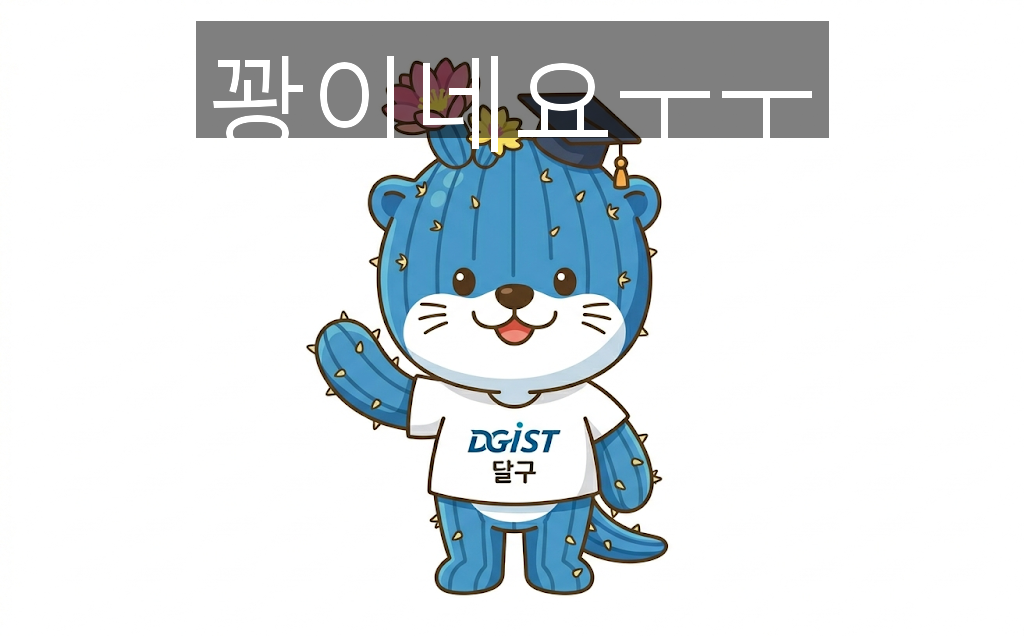
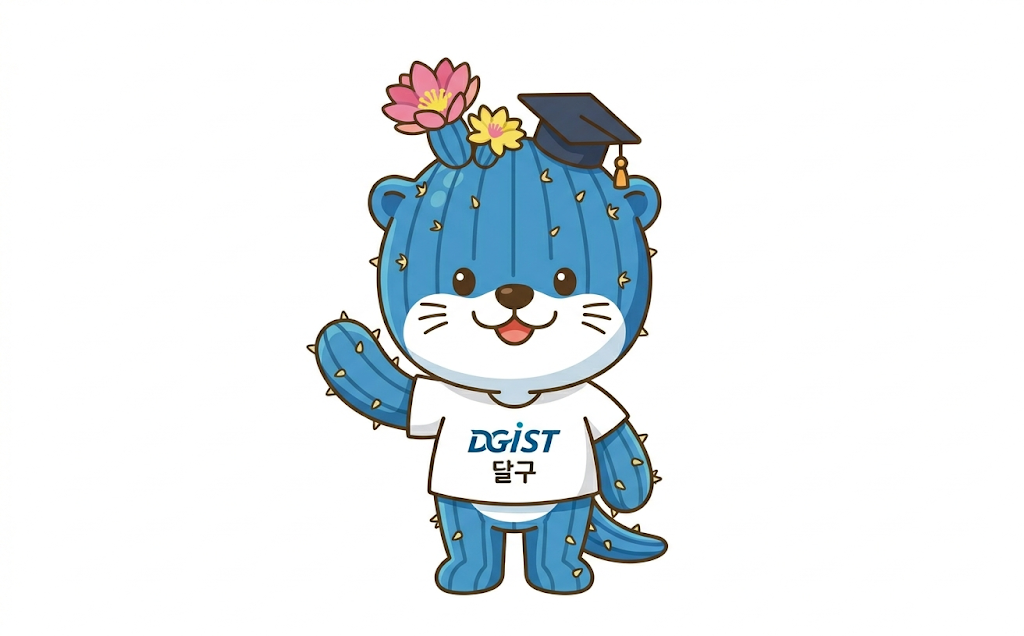
Restore original images, show text below image in HTML

Changed region(s): [[0.1875, 0.0299, 0.8125, 0.239]]

diff --git a/index.html b/index.html
@@ -8,6 +8,7 @@
   * { margin: 0; padding: 0; box-sizing: border-box; }
   body {
     display: flex;
+    flex-direction: column;
     justify-content: center;
     align-items: center;
     min-height: 100vh;
@@ -15,22 +16,35 @@
   }
   img {
     max-width: 100%;
-    max-height: 100vh;
+    max-height: 80vh;
     object-fit: contain;
+  }
+  .text {
+    margin-top: 20px;
+    font-size: 2rem;
+    font-weight: bold;
+    color: #333;
+    font-family: 'Apple SD Gothic Neo', 'Malgun Gothic', sans-serif;
   }
 </style>
 </head>
 <body>
 <img id="randomImg" alt="image">
+<div id="caption" class="text"></div>
 <script>
-  const images = [
+  const losers = [
     "img1.png","img2.png","img3.png","img4.png","img5.png",
     "img6.png","img7.png","img8.png","img9.png","img10.png",
     "img11.png","img12.png","img13.png","img14.png","img15.png",
-    "img16.png","img20.png"
+    "img16.png"
   ];
-  const pick = images[Math.floor(Math.random() * images.length)];
+  const winners = ["img20.png"];
+  const all = losers.concat(winners);
+  const pick = all[Math.floor(Math.random() * all.length)];
   document.getElementById("randomImg").src = pick;
+  if (losers.includes(pick)) {
+    document.getElementById("caption").textContent = "꽝이네요ㅜㅜ";
+  }
 </script>
 </body>
 </html>
